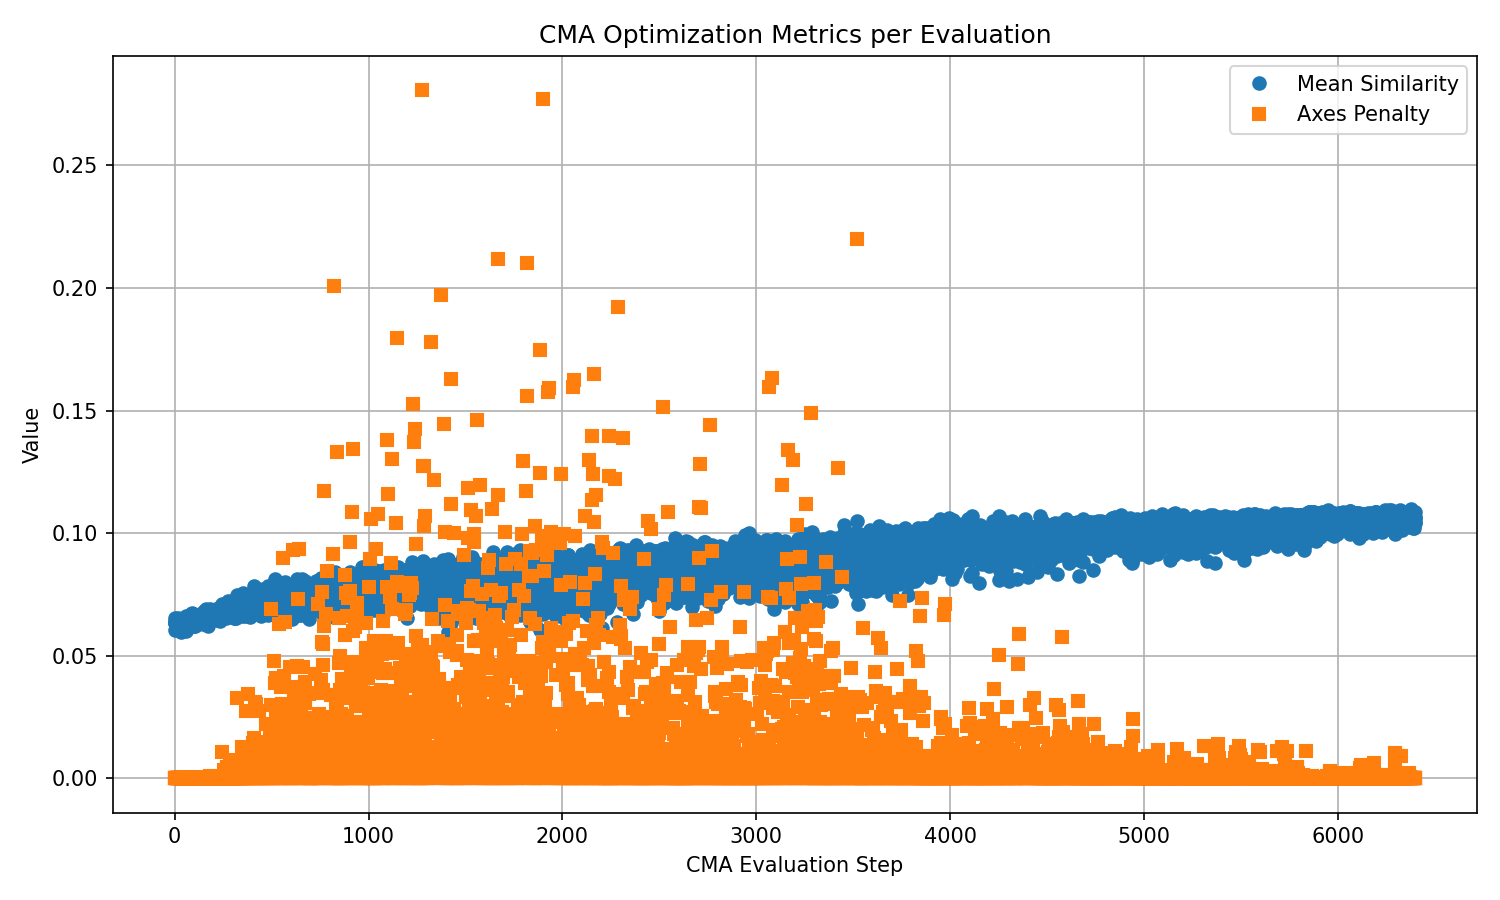
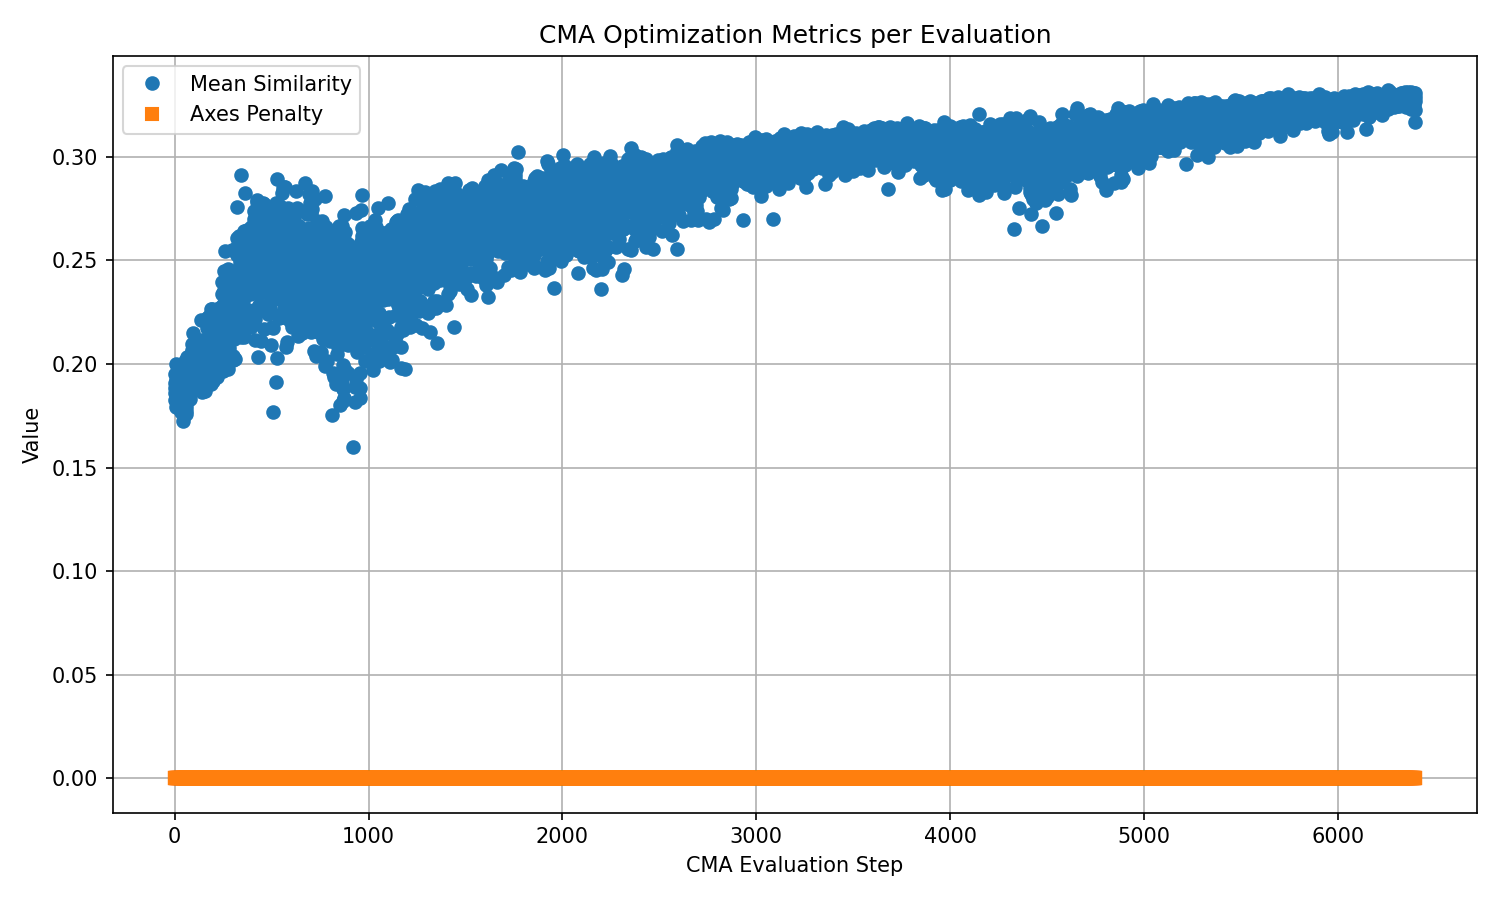
changed to single US

diff --git a/groupwise_GPU.py b/groupwise_GPU.py
@@ -15,6 +15,7 @@ from utils.helpers import sitk_euler_to_matrix, compute_inter_vertebral_displace
 from utils.similarity import IntensitySimilarity
 from extra.centroid import compute_centroid
 from extra.CT_axis import compute_ct_axes
+from extra.IVD_points import compute_adjacent_vertebra_pairings
 
 
 def compute_case_tre(flat_params):
@@ -36,7 +37,7 @@ def compute_case_tre(flat_params):
 
 
 def evaluate_group_gpu(flat_params, K, centers, sampled_positions_list,
-                       moving_parsers, fixed_parsers,
+                       moving_parsers, fixed_parser,
                        case_centroids, orig_dists, case_axes,
                        device='cuda'):
 
@@ -67,7 +68,7 @@ def evaluate_group_gpu(flat_params, K, centers, sampled_positions_list,
         moved_positions = (pts_h @ M_torch.T)[:, :3]
 
         # sample US (fixed) intensities
-        moving_vals = fixed_parsers[k].sample_at_physical_points_gpu(moved_positions) # US parser
+        moving_vals = fixed_parser[k].sample_at_physical_points_gpu(moved_positions) # US
         moving_intensities = moving_vals.float() # US intensities 
         # fixed_intensities = fixed_intensities_list[k]
 
@@ -100,7 +101,7 @@ def evaluate_group_gpu(flat_params, K, centers, sampled_positions_list,
 
 
     # INTER-VERTEBRAL DISPLACEMENT PENALTY
-    lambda_axes = 0.01
+    lambda_axes = 0.0
     axes_margins = { # mm values
         'LM': 3.0,  # STRICT - very little Lateral-Medial sliding
         'AP': 3.0,  # Anterior-Posterior margin Anterior-Posterior
@@ -110,6 +111,10 @@ def evaluate_group_gpu(flat_params, K, centers, sampled_positions_list,
     axes_penalty = compute_inter_vertebral_displacement_penalty(
         moved_centroids, case_centroids, case_axes, transforms_list, axes_margins
     )
+
+
+    # IVD POINT PAIR PENALTY
+    
 
 
 
@@ -132,6 +137,7 @@ if __name__ == "__main__":
     
     # SETTINGS
     # form
+    mesh_dir = '/usr/local/data/elise/pig_data/pig2/Registration/cropped'
     cases_dir = '/usr/local/data/elise/pig_data/pig2/Registration/Known_Trans/intra1/Cases'
     output_dir = '/usr/local/data/elise/pig_data/pig2/Registration/Known_Trans/intra1/output_python_cma_group_allcases'
     os.makedirs(output_dir, exist_ok=True)
@@ -141,6 +147,17 @@ if __name__ == "__main__":
         name for name in os.listdir(cases_dir)
         if os.path.isdir(os.path.join(cases_dir, name)) and name.startswith('L')
     ])
+
+
+    print("Computing nearest points for adjacent vertebra...")
+    pairings, meshes = compute_adjacent_vertebra_pairings(
+    mesh_dir,
+    n_sample=30000,
+    n_pairs=500,
+    max_dist=7.0,
+    seed=42
+    )
+
     print("Group-wise registration for cases:", case_names)
 
     # Precompute per-case data
@@ -156,16 +173,17 @@ if __name__ == "__main__":
     for case in case_names:
         print(f"\nPreparing case {case} ...")
         case_path = os.path.join(cases_dir, case)
-        fixed_file = os.path.join(case_path, 'fixed.nrrd') # US
+        # fixed_file = os.path.join(case_path, 'fixed.nrrd') # US
+        fixed_file = os.path.join(cases_dir, 'US_complete.nrrd')
         moving_file = os.path.join(case_path, 'moving.nrrd') # CT
         
         # read in fixed and moving images
         moving_parser = PyNrrdParser(moving_file) # CT
         moving_parsers.append(moving_parser) # CT
         moving_tensor = moving_parser.get_tensor(False) # CT
+
         fixed_parser = PyNrrdParser(fixed_file) # US 
-        fixed_parsers.append(fixed_parser)
-        fixed_tensor = fixed_parser.get_tensor(False)
+        # fixed_parsers.append(fixed_parser)
 
         # sample CT (moving) points at posterior surface
         mask = moving_tensor > 0 # ct image
@@ -266,7 +284,7 @@ if __name__ == "__main__":
         centers=centers,
         sampled_positions_list=sampled_positions_list_gpu,
         moving_parsers=moving_parsers,
-        fixed_parsers=fixed_parsers,
+        fixed_parsers=fixed_parser,
         case_centroids=case_centroids,
         orig_dists=orig_dists,
         case_axes=case_axes,
@@ -308,7 +326,7 @@ if __name__ == "__main__":
             'verb_disp': 1,
             'maxiter': 80,
             'tolfun': 1e-5,
-            'seed': 772512
+            # 'seed': 772512
         }
     )
 
@@ -321,11 +339,6 @@ if __name__ == "__main__":
     mean_sim_history = []
     axes_penalty_history = []
 
-    # while not es.stop():
-    #     solutions = es.ask()
-    #     values = [partial_eval(sol) for sol in solutions] 
-    #     es.tell(solutions, values)
-    #     it += 1
 
     while not es.stop():
         solutions = es.ask()

diff --git a/extra/CT_axis.py b/extra/CT_axis.py
@@ -1,7 +1,7 @@
 import SimpleITK as sitk
 import matplotlib.pyplot as plt
 import numpy as np
-from centroid import compute_centroid
+from .centroid import compute_centroid
 
 def compute_ct_axes(ct_file):
     """
